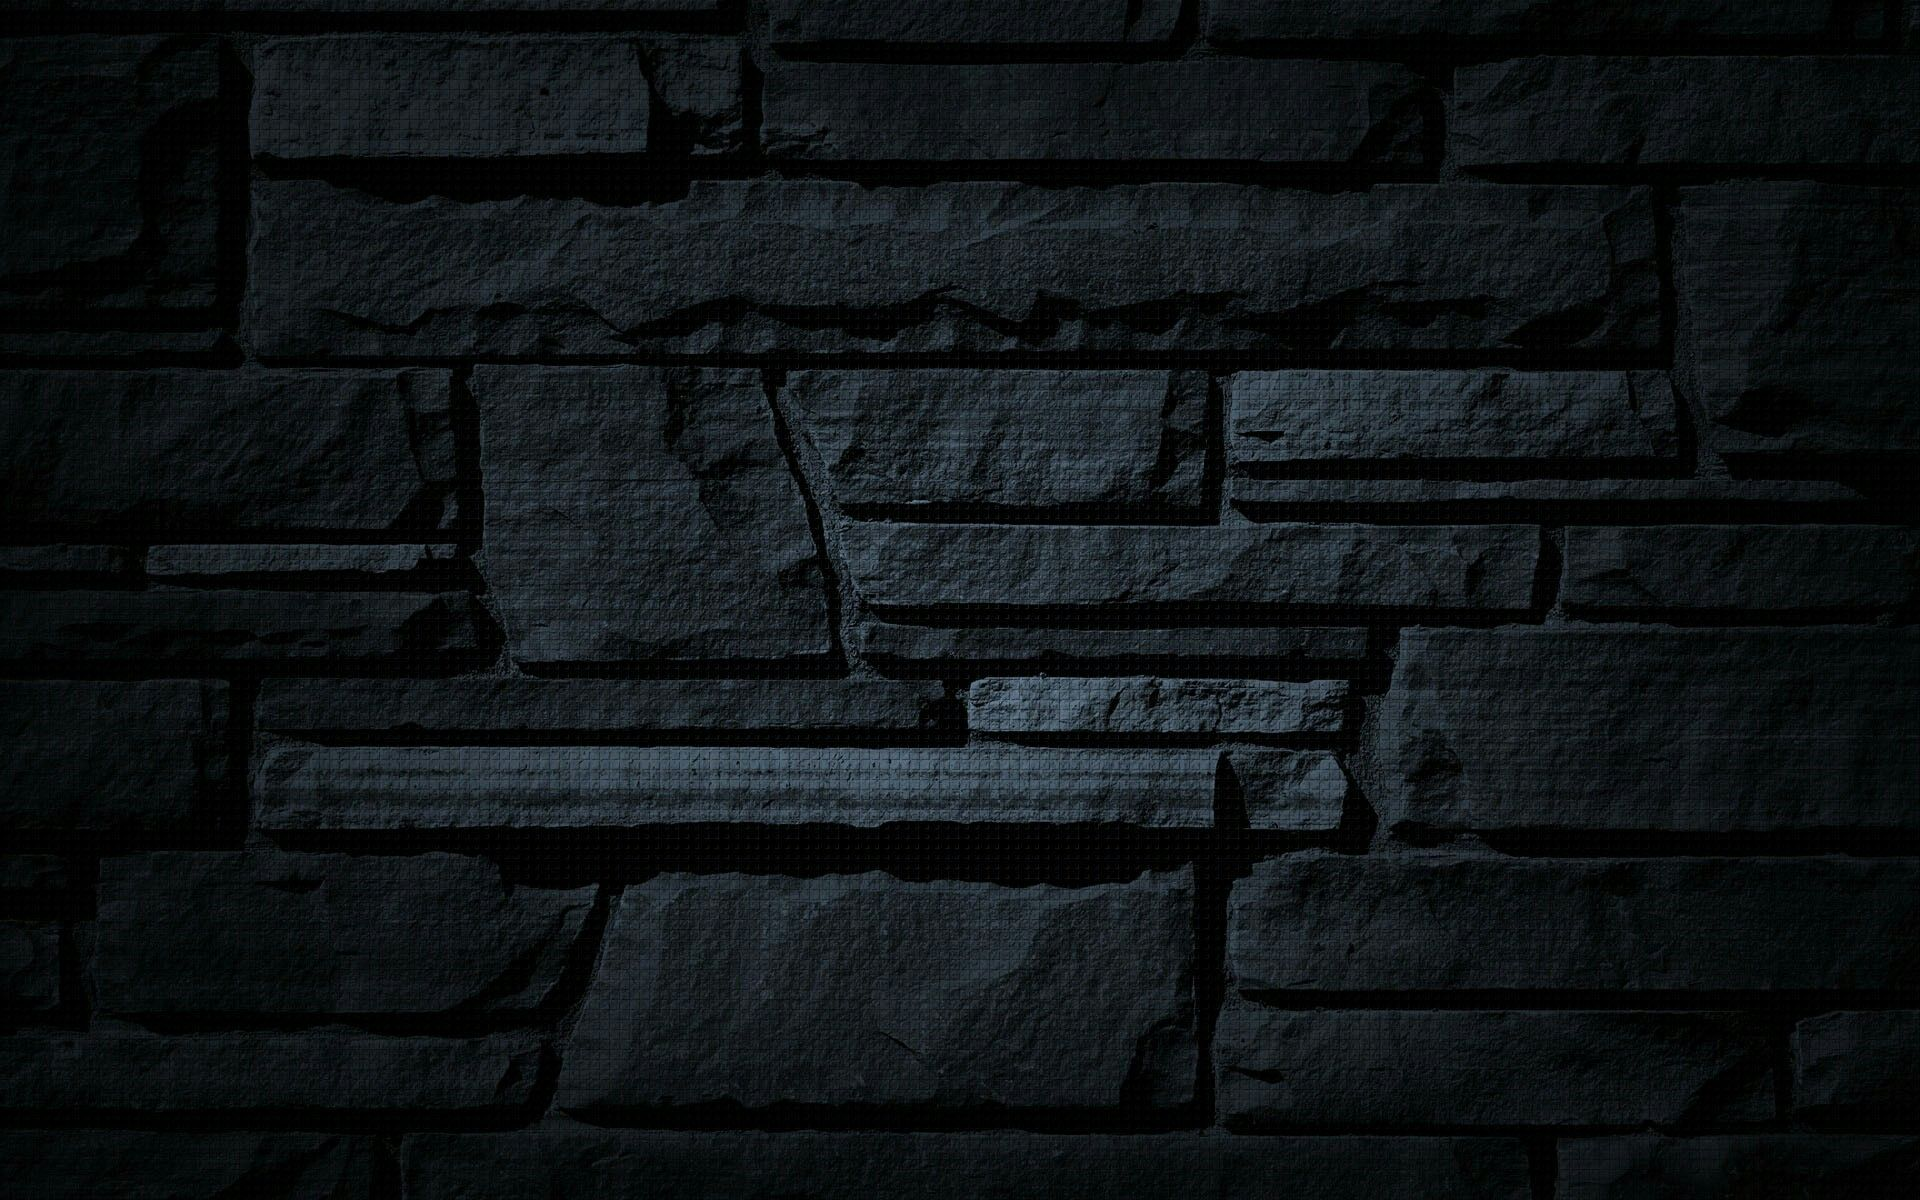
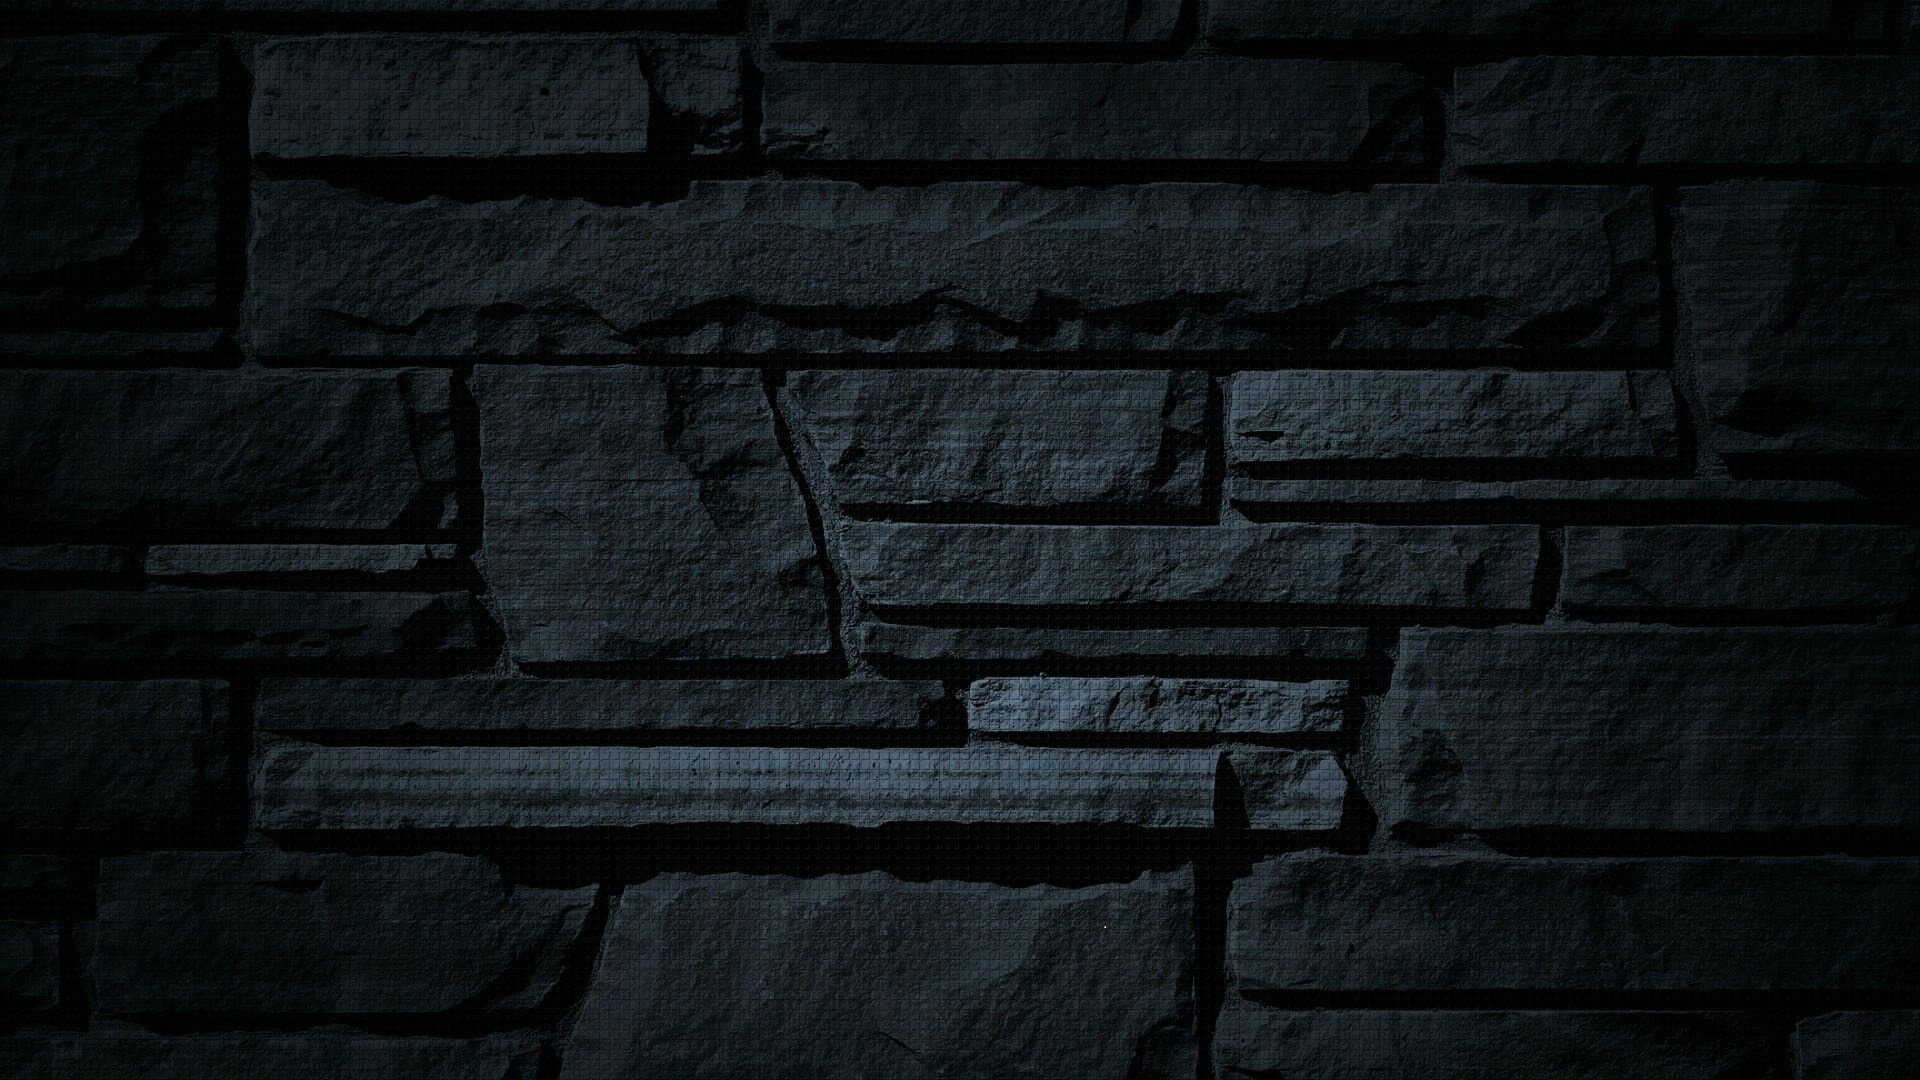
---

diff --git a/00_case_study/case-study-module-4/src/main/resources/templates/view/home.html b/00_case_study/case-study-module-4/src/main/resources/templates/view/home.html
@@ -27,16 +27,16 @@
 
         <div class="carousel-inner">
             <div class="carousel-item active">
-                <img src="/image/bg-login.jpg" height="1080px" class="d-block w-100" alt="...">
+                <img src="/image/bg9.jpg" class="d-block w-100" alt="...">
             </div>
             <div class="carousel-item">
-                <img src="/image/bg7.jpg" class="d-block w-100" alt="...">
+                <img src="/image/bg8.jpg" class="d-block w-100" alt="...">
             </div>
             <div class="carousel-item">
-                <img src="/image/bg-nidalee.jpg" class="d-block w-100" alt="...">
+                <img src="/image/bg3.jpg" class="d-block w-100" alt="...">
             </div>
             <div class="carousel-item">
-                <img src="/image/bg-zed.jpg" class="d-block w-100" alt="...">
+                <img src="/image/bg-login.jpg" class="d-block w-100" alt="...">
             </div>
         </div>
 <!--        <a class="carousel-control-prev" href="#carouselExampleIndicators" role="button" data-bs-slide="prev">-->

diff --git a/00_case_study/case-study-module-4/src/main/resources/templates/view/manage/customer-list.html b/00_case_study/case-study-module-4/src/main/resources/templates/view/manage/customer-list.html
@@ -57,7 +57,7 @@
                 <th>Id card</th>
                 <th>Customer type</th>
                 <th>Use user</th>
-                <th>Update</th>
+                <th  sec:authorize="hasRole('MANAGE')">Update</th>
             </tr>
             </thead>
             <tbody>
@@ -77,7 +77,7 @@
                 <td th:text="${customer.idCard}"></td>
                 <td th:text="${customer.customerType.name}"></td>
                 <td th:text="${customer.user.username}"></td>
-                <td><a th:onclick="'onUpdate('+${customer.id}+')'" class="btn btn-outline-primary"
+                <td sec:authorize="hasRole('MANAGE')"><a th:onclick="'onUpdate('+${customer.id}+')'" class="btn btn-outline-primary"
                        data-bs-toggle="modal" data-bs-target="#staticBackdrop"><i class="fa fa-edit"></i></a></td>
             </tr>
             </tbody>

diff --git a/00_case_study/case-study-module-4/src/main/resources/templates/view/contract/booking-service.html b/00_case_study/case-study-module-4/src/main/resources/templates/view/contract/booking-service.html
@@ -80,7 +80,7 @@
                             <label class="col-lg-2 col-form-label" th:text="${attachService.name}"></label>
                             <button th:onclick="'minus('+${attachService.id}+')'" type="button" class="btn btn-outline-light add" style="width: 30px; height: 40px">-
                             </button>
-                            <input  th:id="service+${attachService.id}" type="text" class="col-1 form-control checkNumber" value="0">
+                            <input  th:id="service+${attachService.id}" type="text" class="col-1 form-control checkNumber" value="0" readonly>
                             <button th:onclick="'add('+${attachService.id}+')'" type="button" class="btn btn-outline-light minus" style="width: 30px; height: 40px">+
                             </button>
                         </div>

diff --git a/00_case_study/case-study-module-4/src/main/resources/templates/view/layout.html b/00_case_study/case-study-module-4/src/main/resources/templates/view/layout.html
@@ -271,7 +271,8 @@
                         <li class="nav-item dropdown user">
                             <a  class="nav-link dropdown-toggle" href="#" id="navbarDropdownUser" role="button"
                                data-bs-toggle="dropdown" aria-expanded="false">
-                                <i sec:authorize="isAuthenticated()" class="fas fa-user"></i>
+<!--                                <i sec:authorize="isAuthenticated()" class="fas fa-user"></i>-->
+                                <img width="50px" sec:authorize="isAuthenticated()" src="/image/icon-yasou2.png" alt="">
                                 <label sec:authorize="isAuthenticated() == false">Login</label>
                             </a>
                             <ul class="dropdown-menu" aria-labelledby="navbarDropdownUser">

diff --git a/00_case_study/case-study-module-4/src/main/resources/templates/view/manage/service-list.html b/00_case_study/case-study-module-4/src/main/resources/templates/view/manage/service-list.html
@@ -41,6 +41,7 @@
                 <th>Max people</th>
                 <th>Service type</th>
                 <th>Rent type</th>
+                <th>Pool area</th>
                 <th>Status</th>
                 <th>Name poster</th>
                 <th>Detail</th>
@@ -58,6 +59,7 @@
                 <td th:text="${service.maxPeople}"></td>
                 <td th:text="${service.serviceType.name}"></td>
                 <td th:text="${service.rentType.name}"></td>
+                <td th:text="${service.poolArea}"></td>
                 <th:block th:switch="${service.status}">
                     <td th:case="false">Still</td>
                     <td th:case="true">Hired</td>

diff --git a/00_case_study/case-study-module-4/src/main/resources/templates/view/customer/detail.html b/00_case_study/case-study-module-4/src/main/resources/templates/view/customer/detail.html
@@ -165,7 +165,7 @@
             <div class="col-sm-9 col-md-7 col-lg-5 mx-auto">
                 <div class="card card-signin my-5">
                     <div class="card-body">
-                        <h5 class="card-title text-center">Sign In</h5>
+                        <h5 class="card-title text-center">Customer</h5>
                         <form class="form-signin" action="/customer/save" method="post" th:object="${customer}">
                             <input type="hidden" th:field="*{id}">
                             <input type="hidden" th:field="*{user}">

diff --git a/00_case_study/case-study-module-4/src/main/resources/templates/view/service/history.html b/00_case_study/case-study-module-4/src/main/resources/templates/view/service/history.html
@@ -65,7 +65,9 @@
 
                 <td><a class="btn btn-outline-light" th:href="@{/manage/contract/detail/{idContract}(idContract=${contract.id})}"><i class="fa fa-eye"></i></a></td>
                 <td>
+                    <th:block sec:authorize="hasRole('EMPLOYEE')">
                     <a th:if="${!contract.status}" th:href="@{/manage/contract/payment/{idContract}(idContract=${contract.id})}" class="btn btn-outline-light">Pay</a>
+                    </th:block>
                 </td>
             </tr>
             </tbody>

diff --git a/00_case_study/case-study-module-4/src/main/resources/templates/view/manage/contract-detail.html b/00_case_study/case-study-module-4/src/main/resources/templates/view/manage/contract-detail.html
@@ -123,7 +123,7 @@
                         <th>Total money:</th>
                         <td th:text="${contract.totalMoney}"></td>
                         <td></td>
-                        <td><a th:if="${!contract.status}"
+                        <td sec:authorize="hasRole('EMPLOYEE')"><a th:if="${!contract.status}"
                               th:href="@{/manage/contract/payment/{idContract}(idContract=${contract.id})}"
                               class="btn btn-outline-dark">Pay</a></td>
                     </tr>

diff --git a/00_case_study/case-study-module-4/src/main/java/com/codegym/validatior/CustomerValidator.java b/00_case_study/case-study-module-4/src/main/java/com/codegym/validatior/CustomerValidator.java
@@ -26,6 +26,7 @@ public class CustomerValidator implements Validator {
         Customer customer = (Customer) target;
         LocalDate dateOfBirth = LocalDate.parse(customer.getDateOfBirth());
 
+
         if (customer.getId() == null) {
             if (customerService.findByEmail(customer.getEmail()) != null) {
                 errors.rejectValue("email","customer.email.duplicate");
@@ -39,7 +40,29 @@ public class CustomerValidator implements Validator {
                 errors.rejectValue("phone","customer.phone.duplicate");
             }
 
+        } else {
+            Customer customerCheck = customerService.findById(customer.getId());
+
+            if (!customer.getEmail().equals(customerCheck.getEmail())) {
+                if (customerService.findByEmail(customer.getEmail()) != null) {
+                    errors.rejectValue("email","customer.email.duplicate");
+                }
+            }
+
+            if (!customer.getIdCard().equals(customerCheck.getIdCard())) {
+                if (customerService.findByIdCard(customer.getIdCard()) != null) {
+                    errors.rejectValue("idCard","customer.idCard.duplicate");
+                }
+            }
+
+            if (!customer.getPhone().equals(customerCheck.getPhone())) {
+                if (customerService.findByPhoneNumber(customer.getPhone()) != null) {
+                    errors.rejectValue("phone","customer.phone.duplicate");
+                }
+            }
         }
+
+
 
         // Check Name
         if (!Pattern.compile("^[A-Z][a-z]+(\\s[A-Z][a-z]+){0,3}$").matcher(customer.getName()).find()) {

diff --git a/00_case_study/case-study-module-4/src/main/java/com/codegym/controller/ManageController.java b/00_case_study/case-study-module-4/src/main/java/com/codegym/controller/ManageController.java
@@ -24,9 +24,12 @@ import com.codegym.service.user.UserService;
 import org.springframework.beans.factory.annotation.Autowired;
 import org.springframework.data.domain.Pageable;
 import org.springframework.data.web.PageableDefault;
+import org.springframework.security.core.Authentication;
 import org.springframework.stereotype.Controller;
 import org.springframework.ui.Model;
 import org.springframework.web.bind.annotation.*;
+
+import java.security.Principal;
 
 @Controller
 @SessionAttributes({"serviceTypeList"})
@@ -157,11 +160,19 @@ public class ManageController {
 
 
     @GetMapping("/contract/payment/{idContract}")
-    public String payment(@PathVariable Long idContract) {
+    public String payment(@PathVariable Long idContract, Principal principal) {
         Contract contract = contractService.findById(idContract);
 
+        org.springframework.security.core.userdetails.User user = (org.springframework.security.core.userdetails.User) ((Authentication) principal).getPrincipal();
+
+        User userMain = userService.findByUsername(user.getUsername());
+
+        if (userMain.getEmployee() == null) {
+            return "redirect:/employee/detail";
+        }
         if (contract != null) {
             contract.setStatus(true);
+            contract.setEmployee(userMain.getEmployee());
             contractService.save(contract);
 
             Service service = serviceDao.findById(contract.getService().getId());

diff --git a/00_case_study/case-study-module-4/src/main/java/com/codegym/rest_controller/ContractRestController.java b/00_case_study/case-study-module-4/src/main/java/com/codegym/rest_controller/ContractRestController.java
@@ -46,8 +46,8 @@ public class ContractRestController {
 
     @GetMapping("/booking/{idAttachService}/{amount}")
     public ResponseEntity<Double> calTotalMoneyByAttachService(@PathVariable Long idAttachService,
-                                                @PathVariable String amount,
-                                                HttpSession session){
+                                                                @PathVariable String amount,
+                                                                HttpSession session){
         HashMap<Long, AttachService> attachServiceHashMap = (HashMap<Long, AttachService>) session.getAttribute("attachServiceSession");
 
         double result1 = (double) session.getAttribute("resultSession1");

diff --git a/00_case_study/case-study-module-4/src/main/java/com/codegym/config/WebConfigSecurity.java b/00_case_study/case-study-module-4/src/main/java/com/codegym/config/WebConfigSecurity.java
@@ -75,7 +75,6 @@ public class WebConfigSecurity extends WebSecurityConfigurerAdapter {
 
     @Bean
     public PersistentTokenRepository persistentTokenRepository() {
-        InMemoryTokenRepositoryImpl memory = new InMemoryTokenRepositoryImpl();
-        return memory;
+        return new InMemoryTokenRepositoryImpl();
     }
 }
